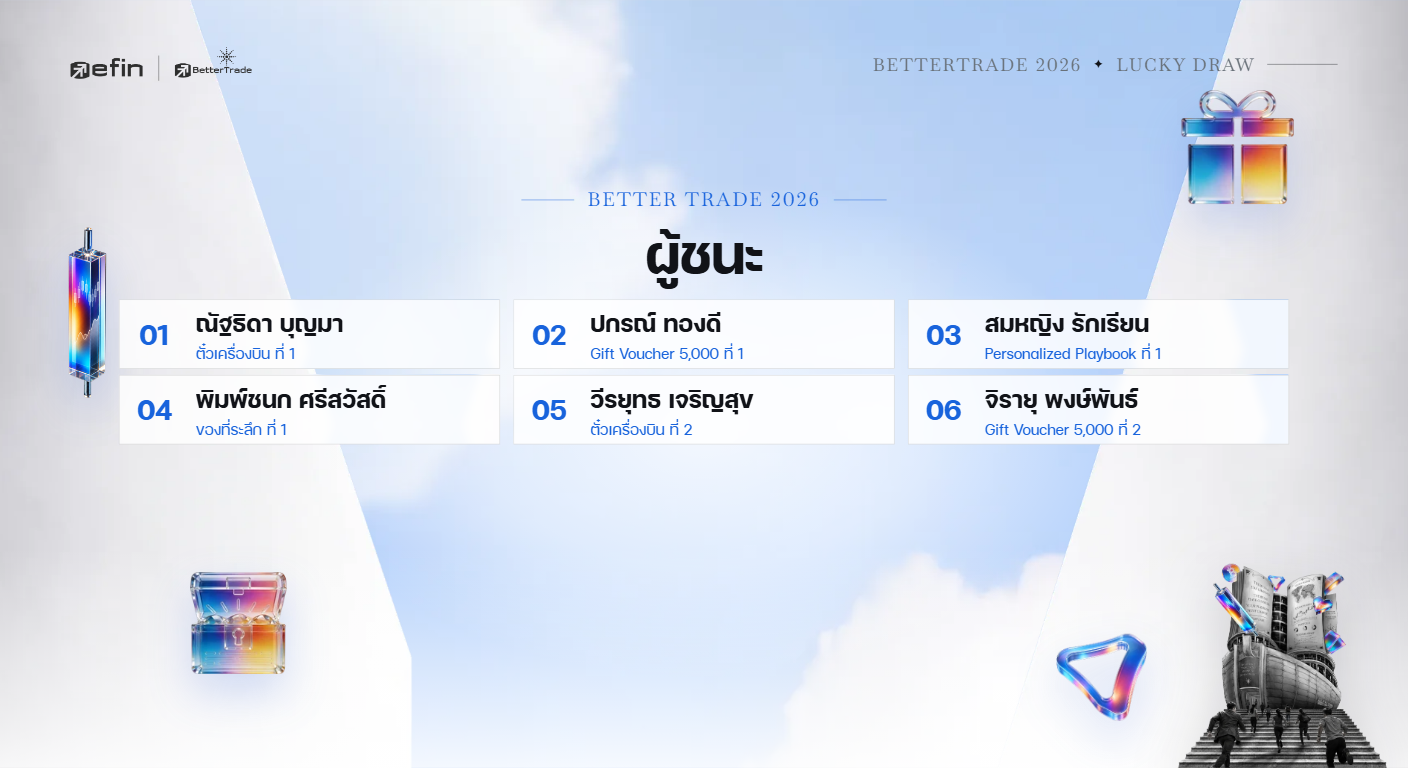
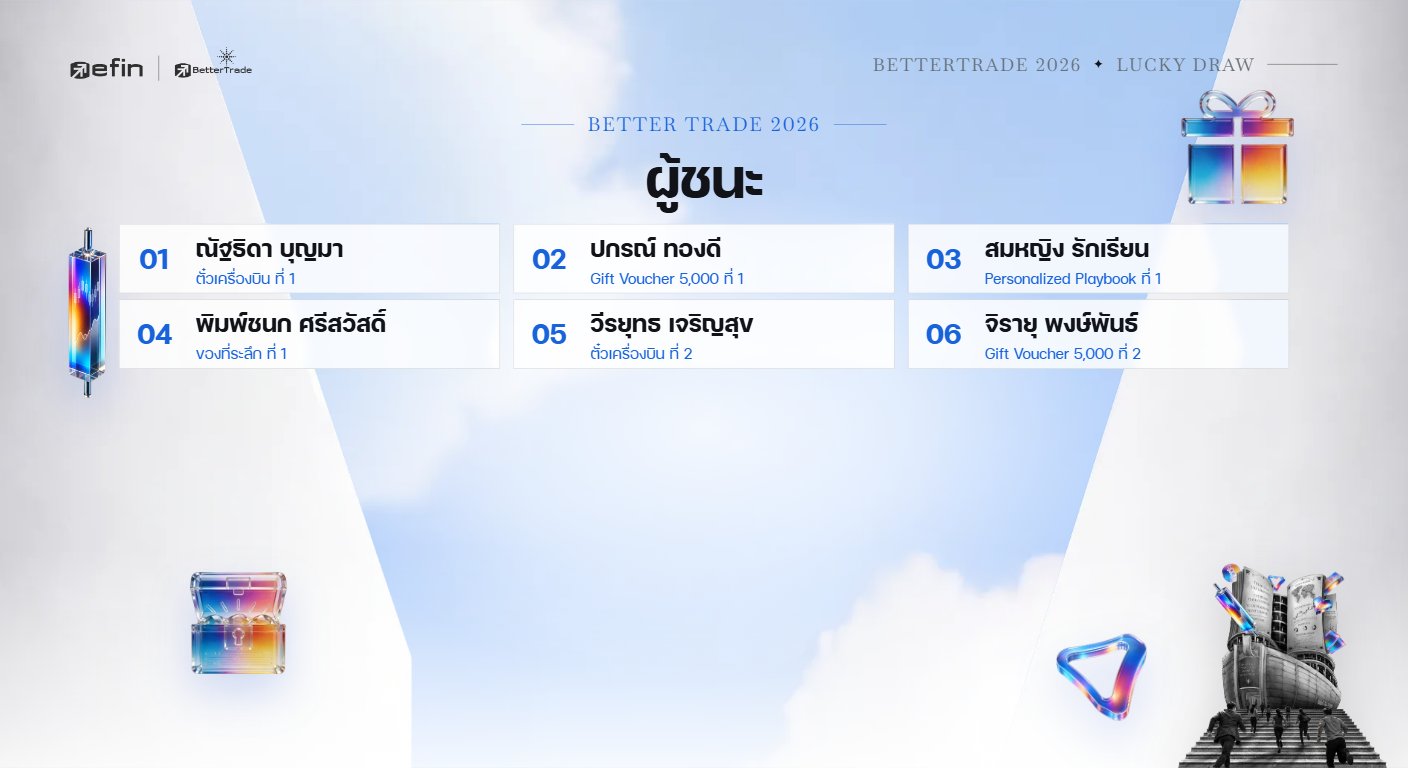
Winners board: same top position whatever the winner count
- The board block starts at one fixed height on both screens (Mini y 152, Main just under the
  logo row) with the same emphasis as a full 12-winner board; it grows downward and fitBoard
  still shrinks it if it would reach the ship
- Regenerate previews

diff --git a/show-screen.html b/show-screen.html
@@ -168,8 +168,9 @@
   /* board */
   /* the ship keeps one size and place everywhere, so the board is compact and top-anchored: its grid ends above the ship's top (fitBoard checks it) */
   /* the block is centred in the free band between the logo row and the ship (padding set by fitBoard) */
-  /* safe center: a block taller than the band starts under the logo row (fitBoard then shrinks the grid) instead of overflowing upward */
-  .scene.board{justify-content:safe center;padding:118px 0 24px}
+  /* the block always starts at the same height as with a full 12-winner board, whatever the count or style;
+     it grows downward and fitBoard shrinks the grid if it would reach the ship */
+  .scene.board{justify-content:flex-start;padding:118px 0 24px}
   .board h2{font-size:100px;margin:4px 0 10px}
   /* 3 columns x up to 4 rows (12 winners); names and prizes are sized for reading from far away */
   .grid{display:flex;flex-wrap:wrap;justify-content:center;gap:8px 18px;max-width:1596px;transform-origin:top center}
@@ -549,7 +550,9 @@ function fitBoard(){
   // free band: below the logo row, down to the ship's top (only where the board is over the ship) or the screen's bottom margin
   const bandBottom = overShip ? stage.clientHeight - ship.offsetHeight - 24 : stage.clientHeight - 24;
   const head = document.querySelector(".top");
-  scene.style.padding = `${head.offsetTop + head.offsetHeight + 8}px 0 ${stage.clientHeight - bandBottom}px`;
+  // kicker top with a full 12-winner board: Mini 152, Main just under the (taller) logo row
+  const MINI_TOP = 152;
+  scene.style.padding = `${screen === "mini" ? MINI_TOP : head.offsetTop + head.offsetHeight + 8}px 0 ${stage.clientHeight - bandBottom}px`;
   const top = grid.offsetTop, h = grid.offsetHeight;
   const limit = bandBottom - 6;
   if(top + h > limit) grid.style.transform = `scale(${Math.max(.5, (limit - top) / h).toFixed(3)})`;
